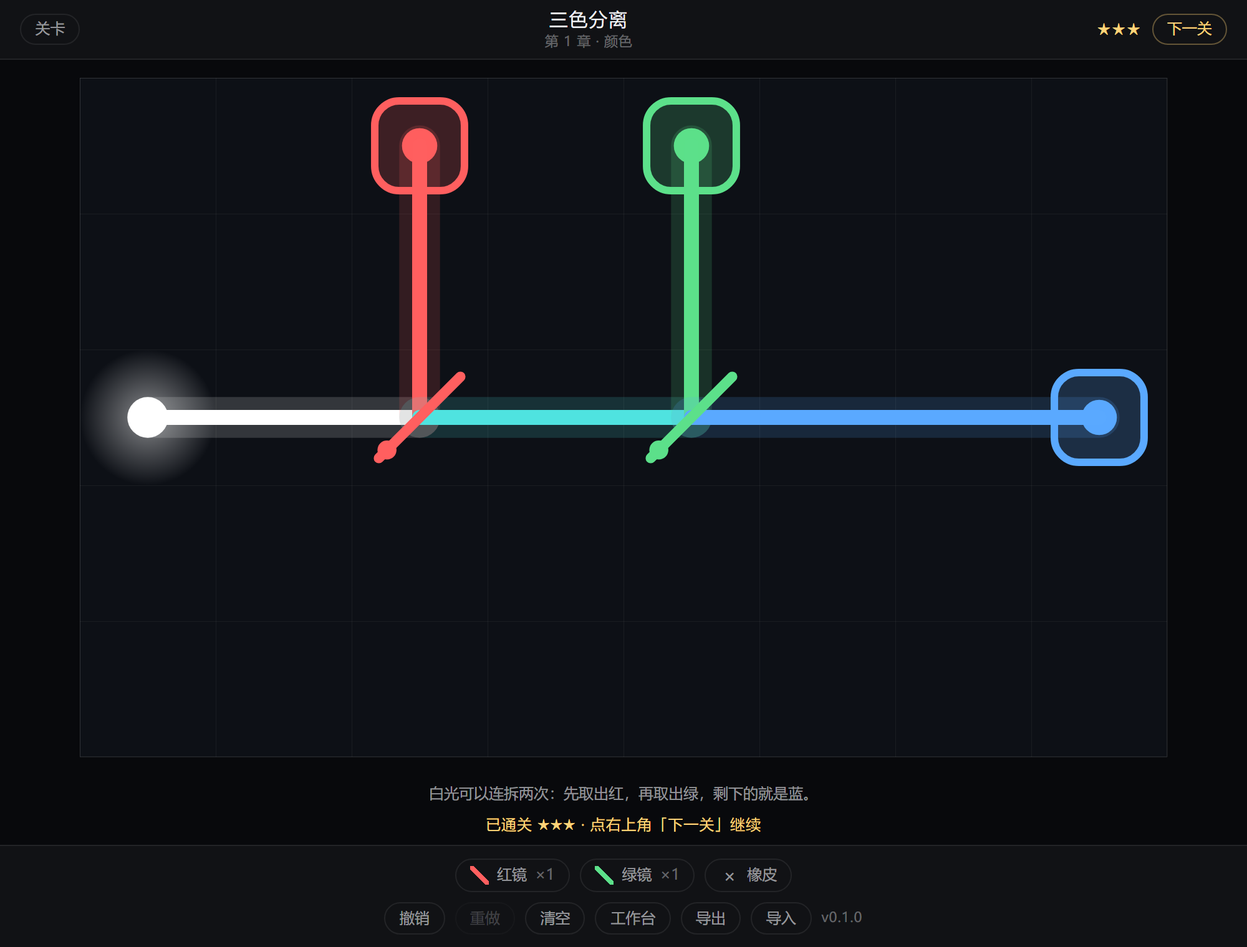
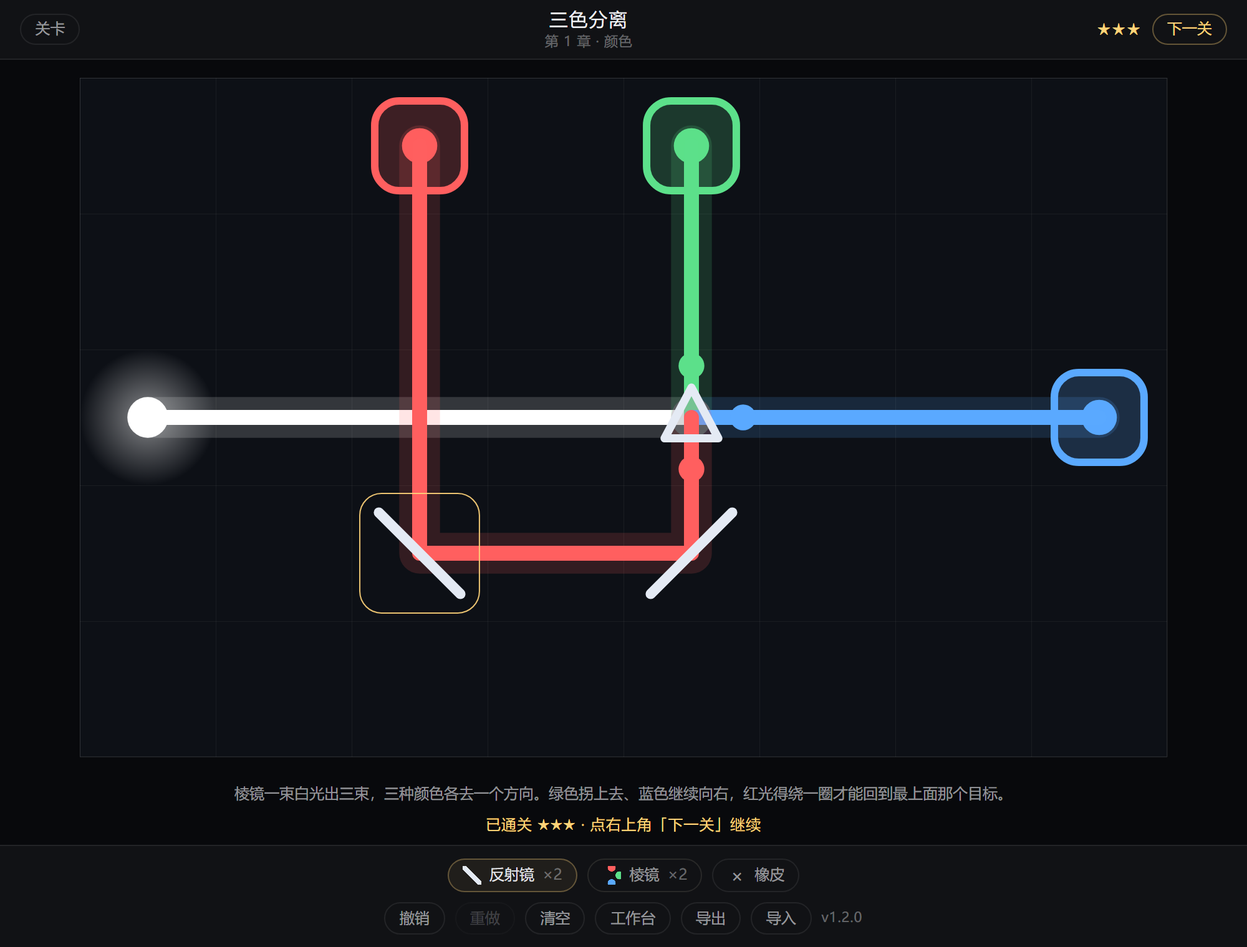
docs: rewrite the element docs and ship v1.2.0
The requirement and design documents still described the dichroics, and the
in-place edit of the level table claimed the colour chapter would keep its par
-- which the exhaustive search disproved, so the table now carries the values
that were actually verified.

Two findings worth keeping, both written into the docs:

* The target test stays a superset test, so a white beam lights a target that
  asks for cyan. That was already true in v1.0.0 and is what makes the six
  colour levels solvable by routing white light alone -- the old dichroics were
  decoration in twelve of the sixteen levels.
* Under that rule no level can ever force colour separation, because splitting
  adds no reachability. The prism's single-element edge is "one element, three
  directions", and the colour chapter enforces it through the element quota.

Adding a target or removing a wall to the colour levels was on the table; the
search showed it is unnecessary, so no layout moved and no level had to be
redesigned. The screenshots are retaken from the verified solutions, and the
in-page version badge, package.json and the changelog agree at 1.2.0.

diff --git a/index.html b/index.html
@@ -44,7 +44,7 @@
         <button class="btn btn--ghost" id="btn-export" type="button" title="把当前关卡导出为 JSON 文件">导出</button>
         <button class="btn btn--ghost" id="btn-import" type="button" title="导入外部关卡 JSON 文件">导入</button>
         <input class="sr-only" id="file-import" type="file" accept="application/json,.json" />
-        <span class="hud__version" data-app-version>v1.1.0</span>
+        <span class="hud__version" data-app-version>v1.2.0</span>
       </div>
     </footer>
   </div>

diff --git a/doc/需求与测试用例.md b/doc/需求与测试用例.md
@@ -4,8 +4,8 @@
 
 | 项目 | 内容 |
 |---|---|
-| 文档版本 | r3（v1.0.0 实现与测试回填） |
-| 对应产品 | v1.0.0（16 关全量可玩，Web 版发布就绪） |
+| 文档版本 | r4（v1.2.0 元件改版：移除二向色镜、新增棱镜） |
+| 对应产品 | v1.2.0（16 关全量可玩，Web 版与安卓版均已发布） |
 | 需求来源 | **对标 Steam《RAX》**（AppID 2391770，leegons，2026-06-15 首发，免费） |
 | 实施策略 | 先 Web 版（纯静态、零运行时依赖），跑通后再打包安卓 APK |
 | 变更方式 | 需求变更先改本文件、再改 `设计文档.md`，最后才动代码 |
@@ -26,7 +26,7 @@
 |---|---|---|
 | 网格光路、水平/垂直/斜向传播 | ✅ 做 | 8 方向传播 |
 | 镜子、分光镜 | ✅ 做 | 反射镜、分光镜 |
-| 颜色拆分与合成 | ✅ 做 | 二向色镜（拆分）+ 目标处加色合成 |
+| 颜色拆分与合成 | ✅ 做 | 棱镜（按 RGB 分量三分）+ 目标处加色合成 |
 | 延迟镜、冷热镜、单通镜、条件触发 | ❌ 不做 | 属第二版，需要引入时间步模型 |
 | 蓝图 / 芯片封装 | ❌ 不做 | 依赖前两版稳定后再做 |
 | 关卡模式 + 星级挑战 | ✅ 做 | 1★ 通关，2★/3★ 按元件数 |
@@ -82,23 +82,71 @@
 | `M` | R + B | 品红 |
 | `W` | R + G + B | 白 |
 
-- 同一束光的颜色在传播过程中**不变**，除非经过二向色镜被拆分。
+- 同一束光的颜色在传播过程中**不变**，除非经过棱镜被按分量拆分。
 - **颜色合成只发生在目标处**：从任意方向射入同一目标的各束光按位或合并，合并结果满足目标要求即视为点亮。
 - 元件所在格不发生颜色合成（穿过同一格的两束光互不影响）。
 
-### 3. 元件清单（第一版）
+### 3. 元件清单（v1.2.0）
 
-| 代号 | 名称 | 可旋转 | 可放置 | 规则 |
+| 代号 | 名称 | 朝向 | 可放置 | 规则 |
 |---|---|---|---|---|
-| `emitter` | 光源 | 否 | 否 | 关卡预设，固定位置、朝向与颜色（R/G/B 之一），不可删除 |
-| `mirror` | 反射镜 | ✅ 2 态 | ✅ | 45° 镜面（`/` 或 `\`），关于镜面方向做镜像反射 |
-| `splitter` | 分光镜 | ✅ 2 态 | ✅ | 入射光同时产生透射与反射两束，各保留原色 |
-| `dichroicR` / `dichroicG` / `dichroicB` | 二向色镜 | ✅ 2 态 | ✅ | 反射**指定颜色**，其余颜色透射。实现颜色拆分 |
-| `wall` | 墙体 | 否 | 否 | 关卡预设，吸收所有光，不可删除 |
-| `target` | 目标 | 否 | 否 | 关卡预设，标注所需颜色，被满足时点亮 |
+| `emitter` | 光源 | — | 否 | 关卡预设，固定位置、朝向与颜色（R/G/B 之一），不可删除 |
+| `mirror` | 反射镜 | 2 态 | ✅ | 45° 镜面（`/` 或 `\`），关于镜面方向做镜像反射 |
+| `splitter` | 分光镜 | 2 态 | ✅ | 入射光同时产生透射与反射两束，各保留原色 |
+| `prism` | 棱镜 | **3 态** | ✅ | 按颜色掩码拆成 R/G/B 三个分量，分别送往入射方向的**左转 90°、直行、右转 90°** |
+| `wall` | 墙体 | — | 否 | 关卡预设，吸收所有光，不可删除 |
+| `target` | 目标 | — | 否 | 关卡预设，标注所需颜色，被满足时点亮 |
 
-**二向色镜作为三种独立元件**（红/绿/蓝各一个），而不是「一个元件加一个换色按钮」：
-放置时一次到位，避免二次编辑，也避免移动端长按/右键的复杂交互。
+「朝向」列的态数由 `orientStateCount(type)` 给出：反射镜与分光镜是 2 态（`/` 与 `\`），棱镜是 3 态。
+点击已放置的元件（或按 `R`）循环切换。
+
+**棱镜的朝向决定「哪个颜色走直行」**，三态循环，另两色自动分列两侧：
+
+| 朝向 | 左转 90° | 直行 | 右转 90° |
+|---|---|---|---|
+| 0 | R | G | B |
+| 1 | G | B | R |
+| 2 | B | R | G |
+
+读法：三个颜色永远按 `R → G → B` 的顺序占据「左转 / 直行 / 右转」三个位置，朝向只是把起点轮转一位。
+等价地，**朝向 `n` 表示左转位上坐着循环序列的第 `n` 个颜色**。
+
+方向定义（与 `light-core.js` 的索引一致，屏幕坐标系 y 轴向下）：
+**左转 = 屏幕上逆时针 90°**，即方向索引 `(i − 2 + 8) % 8`；右转 = 顺时针 90°，即 `(i + 2) % 8`。
+对向右传播的光，左转是向上、右转是向下。
+
+**v1.0.0 的三种二向色镜（`dichroicR` / `dichroicG` / `dichroicB`）已移除。**
+二向色镜是**二分**（指定色走一路，其余颜色一起走另一路），棱镜是**三分**（R/G/B 各走一路），
+两者语义不同：「让其余颜色一起走」这类谜题在新机制下表达不出来 —— 这不是被更强的元件替代，
+而是整套拆分机制换掉了。
+
+二向色镜机制可能在未来版本以别的形式回归，但代码里按彻底移除处理，不留半成品分支。
+
+#### 3.1 棱镜的真实定位（穷举验证后的结论）
+
+改元件后跑了全 16 关的穷举（`npm run verify:par`，见 §6 的 Q15），得到一个必须写下来的事实：
+
+| 关卡 | 声明 par | 穷举最小 | 一关是否需要棱镜 |
+|---|---|---|---|
+| 全部 16 关 | 与穷举最小**完全一致** | — | **一关都不需要** |
+
+原因有两层，都不可绕过：
+
+1. **目标判定是超集判定**：`(incoming & require) === require`。白光含 R/G/B，
+   打在 require 为 `R`、`C` 等任何目标上都算点亮（Q15 确认保持这条规则）。
+2. **拆色不增加可达性**：棱镜不会把光送到反射镜 + 分光镜送不到的地方，
+   它只是「一个元件分三路」这种更省元件的做法。
+
+因此在**现有** 16 关里，棱镜是「更省元件的一条路」，而不是必需元件 —— `t04`「拆开这束光」
+用一个分光镜也能过（黄光原样送给两个目标，超集判定下都算点亮）。
+
+**棱镜唯一能确立优势的题型是「一束光要同时去三个方向」**：
+反射镜 + 分光镜至少需要 2 个元件才能造出三路，棱镜 1 个就够。
+把它写进定位里，后续出题按这个形状走，而不是指望「目标要求青」逼出拆色（那条路在超集判定下走不通）。
+
+> 若哪天真想让颜色必须拆开，只能改目标判定为「入射色必须与需求色完全相等」。
+> 这次评估过并放弃了：代价是 7 关 par 上调，且「多打一束杂光会把已点亮的目标打灭」
+> 这种反直觉情况需要在界面上解释。
 
 ### 4. 传播与求解规则
 
@@ -109,6 +157,11 @@
   - 当 `d` 与镜面垂直时 `d' = −d`（原路返回）。
   - 标准情形下形成 90° 转向。
 - **分光镜**在入射方向上有两个出射：透射（保持 `d`）与反射（按镜面规则），两束颜色都与入射相同。
+- **棱镜**把入射颜色掩码拆成三个分量，每个非零分量各出一束：
+  `R` 分量 → 左转 90°，`G` 分量 → 直行，`B` 分量 → 右转 90°（哪个颜色坐哪个位置由朝向决定，见上表）。
+  - 缺哪个分量就不出哪一束：黄光（`R|G`）进棱镜只出两束，纯红光只出一束。
+  - 与分光镜的关键区别：**分光镜能让同一种颜色变成两束，棱镜永远不会** ——
+    每个颜色分量在棱镜里只有一个出口。这是两个元件各自不可替代的地方。
 - **终止条件**：撞到墙体、离开网格边界、或状态重复。
 - **防环剪枝**：同一格 + 同一方向 + 同一颜色只处理一次，避免分光镜构成的环路导致死循环。
 - **安全上限**：单次求解最多处理 4096 个光段；超出则停止追踪并在控制台给出提示（视为光路过载，不影响其它关卡）。
@@ -117,7 +170,22 @@
 ### 5. 关卡与星级
 
 - 章节结构：**第 0 章（教学，4 关）** + **第 1 章（6 关）** + **第 2 章（6 关）**，共 16 关。
-- 教学关依次引入：光直射与目标 → 反射镜 → 分光镜 → 二向色镜。
+- 教学关依次引入：光直射与目标 → 反射镜 → 分光镜 → 棱镜。
+- 第 1 章「颜色」以棱镜的三色路由为主线；第 2 章「精算」收紧元件配额。
+- **v1.2.0 的关卡改动范围**（穷举验证后收窄，见 §3.1）：
+
+| 关卡 | 原设计依赖 | 本轮处理 |
+|---|---|---|
+| `t04` | 红二向色镜教学 | hint 改为棱镜教学；布局不动，`par` 仍是 1（穷举确认棱镜解即最小解） |
+| `c01` `c03` `c04` `c05` `c06` | 二向色镜拆色 | inventory 换成「棱镜 + 反射镜」并**去掉分光镜**，hint 改写；布局不动，`par` 按穷举最小调到 3 / 3 / 4 / 4 / 4 |
+| `c05` | — | 标题「绿镜的名堂」引用了已移除的元件，更名为「品红与绿」 |
+| `e02` `e06` | 二向色镜拆色 | **只改 inventory 键名**，hint 与布局都不动、`par` 不变（肖工确认这两关不用重做） |
+| 其余 8 关 | — | 不动 |
+
+- 第 1 章不发分光镜是**刻意的**：反射镜不能分束，因此该章「一束光喂饱多个目标」只能靠棱镜，
+  棱镜从「可选的省元件做法」变成必需元件。这条约束由单测把守（谁把分光镜加回颜色章就红）。
+  `e02` / `e06` 保持发分光镜，所以它们的最解仍是两个 / 三个元件。
+- 所有关卡的 `par` 必须等于穷举出的最小元件数，且该值由 `npm run verify:par` 复核。参考解只能证明局部最优，证明不了「更少的元件做不到」。
 - 星级规则（每关独立计算，取历史最好成绩）：
 
 | 星级 | 条件 |
@@ -135,10 +203,10 @@
 
 | 操作 | 鼠标 | 键盘 | 触摸 |
 |---|---|---|---|
-| 选中元件 | 点击工具栏 | `1`–`5` 数字键 | 点击工具栏 |
+| 选中元件 | 点击工具栏 | `1`–`3` 数字键 | 点击工具栏 |
 | 选中橡皮 | 点击工具栏的橡皮 | `E` | 点击工具栏的橡皮 |
 | 放置到空格 | 左键点击空格 | 方向键移动光标 + `Enter` | 点击空格 |
-| 旋转已放置的元件 | 左键点击该元件 | 光标移到元件上按 `R` | 点击该元件 |
+| 切换已放置元件的朝向 | 左键点击该元件，按该元件的态数循环 | 光标移到元件上按 `R` | 点击该元件 |
 | 删除元件 | 右键点击元件，或选中橡皮后点击 | 光标移到元件上按 `Delete` / `Backspace` | 选中橡皮后点击元件 |
 | 打开关卡列表 | 顶栏「关卡」 | 未选中任何元件时按 `Esc` | 顶栏「关卡」 |
 | 取消当前选中 | — | `Esc` | — |
@@ -195,12 +263,12 @@
 | T06 | 反射规则：4 个轴向入射 × 2 种镜面朝向的 8 种组合结果正确 | ✅ 已实现（`tests/light-core.test.js`） |
 | T07 | 反射规则：斜向入射的「平行滑过」与「垂直返回」两种边界情形正确 | ✅ 已实现 |
 | T08 | 分光镜：入射光产生透射与反射两束，颜色均与入射相同 | ✅ 已实现 |
-| T09 | 二向色镜：只反射指定颜色，其余颜色透射 | ✅ 已实现 |
+| T09 | 棱镜：按 RGB 分量拆成三束（红左转 / 绿直行 / 蓝右转）、三态朝向的槽位映射、缺色不出束、且永不产生同色两束 | ✅ 已实现 |
 | T10 | 颜色掩码：`R+G=Y`、`G+B=C`、`R+B=M`、`R+G+B=W` 的按位或合成正确 | ✅ 已实现 |
 | T11 | 求解终止：撞墙、出界、以及分光镜构环时的剪枝均正确终止 | ✅ 已实现（`tests/light-engine.test.js`） |
 | T12 | 求解幂等：同一关卡布局重复求解，光段与目标状态完全一致 | ✅ 已实现 |
 | T13 | 星级计算：`par`、`par+1`、`par+2`、`par+3` 四档元件数分别得到 3/2/2/1 星 | ✅ 已实现 |
-| T14 | 内置关卡数据自检：16 关的 schema 合法、坐标在界内、`par` 不小于实际最小值 | ✅ 已实现（`tests/levels.test.js`） |
+| T14 | 内置关卡数据自检：16 关的 schema 合法、坐标在界内、参考解元件数等于 `par`、去掉任一元件即不通关、配额足够、颜色章不发分光镜 | ✅ 已实现（`tests/levels.test.js`） |
 | T15 | 存档序列化／反序列化往返一致，旧格式兼容 | ✅ 已实现（`tests/storage.test.js`） |
 | T16 | 导入校验：缺字段 / 类型错 / 坐标越界 / 颜色代号非法 / 元件类型非白名单 / 超规模，逐项被拒 | ✅ 已实现 |
 
@@ -223,6 +291,7 @@
 | U11 | 导入被篡改的关卡文件时，给出明确错误提示且不改变当前关卡 | ✅ 已实现 |
 | U12 | 光路过载（超过 4096 光段）时给出警示提示，且不卡死、可撤销、可切关 | ✅ 已实现 |
 | U13 | 系统开启「减少动效」时关掉过渡，玩法不受影响 | ✅ 已实现 |
+| U14 | 棱镜的朝向按三态轮转（点击或 `R`），只有正确的朝向能通关 | ✅ 已实现 |
 
 ## 六、已确认的产品决策
 
@@ -241,6 +310,8 @@
 | 2026-09-19 | 清空采用两步确认（3 秒内再点一次） | 移动端工具栏紧挨着「撤销」，误触会把整关布局清光，而撤销栈只留 100 步 |
 | 2026-09-19 | HUD 展示项定稿 | Q08 结论：顶栏放关卡名 / 章节副标题 / 本关最好星数 / 常驻「下一关」；舞台下方放提示文案 + 通关状态行；底栏放工具栏（含剩余配额）、撤销、重做、清空、工作台、导出、导入、版本号。浮层承担通关结算、关卡列表、工作台、导入错误四类 |
 | 2026-09-19 | 性能指标定稿 | Q12 结论见下表，数值在 Chromium 1280×800 @ dpr 2 上实测 |
+| 2026-09-19 | 移除三种二向色镜，新增三态棱镜 | 棱镜按 RGB 分量三分：红左转 90°、绿直行、蓝右转 90°，朝向决定哪个颜色走直行（三态轮转）。红/绿/蓝二向色镜的功能被棱镜覆盖，故一并移除 |
+| 2026-09-19 | 目标点亮保持**超集判定** | Q15 结论：一束白光射到要求「青」的目标上**算点亮**。选它的理由是不引入「多打一束杂光反而把已点亮目标打灭」这种反直觉情形。代价是现有 16 关里棱镜不是必需元件（见 §3.1），棱镜的定位因此收敛为「一束光分三路的省元件做法」 |
 
 ### Q12 实测数值（2026-09-19）
 
@@ -255,6 +326,23 @@
 结论：**不需要优化求解器**。最坏情况（几何上限 40×40 + 元件数上限 + 光段数上限三者同时打满）
 也只有约 7.2 ms，仍在 60 fps 的单帧预算内。`overflow` 这条降级路径保留，因为它在
 40×40 铺满分光镜时是**真实可达**的（不是理论防御），所以必须有对应的 UI 提示（U12）。
+
+### Q15 棱镜与目标判定（2026-09-19）
+
+肖工决定：**目标点亮保持超集判定** —— 一束白光射到要求「青（G+B）」的目标上**算点亮**。
+选它是因为另一种方案（入射色必须与需求色完全相等）会带来「多打一束杂光反而把已点亮的目标
+打灭」的反直觉情形。
+
+这条决定的完整后果写在 §3.1，要点是：超集判定下**没有任何关卡能靠目标要求逼出拆色**，
+所以棱镜的单元素优势只剩「一个元件把光分三路」；颜色章的棱镜必需性由**元件配额**
+（该章不发分光镜）达成，不是由目标判定达成。
+
+穷举数据（`npm run verify:par`，库存放开时的全关卡最小元件数）：
+
+| 判定方式 | t04 | c01 | c03 | c04 | c05 | c06 | e02 | e06 |
+|---|---|---|---|---|---|---|---|---|
+| 超集（采用） | 1 | 1 | 2 | 2 | 2 | 2 | 2 | 3 |
+| 完全相等（放弃） | 1（唯一解是棱镜） | 3 | 3 | 4 | 4 | 4 | 4 | 5 |
 
 ## 七、后续讨论清单
 

diff --git a/doc/实施计划.md b/doc/实施计划.md
@@ -48,7 +48,7 @@
 ### 2.1 光路核心（纯计算）✅
 
 - [x] `scripts/light-core.js`：方向表、颜色掩码、反射公式 `(−dy,−dx)` / `(dy,dx)`、元件规则表
-- [x] `tests/light-core.test.js`：T06 轴向反射 8 组合 / T07 斜向边界 / T08 分光 / T09 二向色 / T10 颜色合成
+- [x] `tests/light-core.test.js`：T06 轴向反射 8 组合 / T07 斜向边界 / T08 分光 / T09 棱镜 / T10 颜色合成
 
 ### 2.2 求解器 ✅
 
@@ -57,7 +57,7 @@
 
 ### 2.3 教学关与首个可玩闭环 ✅
 
-- [x] `scripts/levels.js`：schema 校验函数 + 第 0 章 4 关（依次引入直射、反射镜、分光镜、二向色镜）
+- [x] `scripts/levels.js`：schema 校验函数 + 第 0 章 4 关（依次引入直射、反射镜、分光镜、棱镜）
 - [x] `tests/levels.test.js`：T14 全部关卡自检
 - [x] `scripts/renderer.js`：网格、元件图形、光段折线、目标状态（**替换掉待机占位渲染**）
 - [x] 输入层：Pointer Events 点选 / 放置 / 旋转 / 删除
@@ -106,27 +106,60 @@
       但渲染层与编排层**都没有消费它**，玩家会看到一条被截断的光路而毫无提示。
       已接到通关状态行（警示色 + 文案），并加 U12 断言：过载时可撤销、可切关，不会卡死
 
-## 阶段 4 · Web 版发版
+## 阶段 4 · Web 版发版 ✅
 
-- [ ] CHANGELOG 落版本号与日期，README 去「骨架」措辞、补截图与在线演示链接
-- [ ] 三处版本号一致（`package.json` / 页面 / CHANGELOG）
-- [ ] fast-forward 合并回 `main`，打 tag `vX.Y.Z`
-- [ ] 开启 GitHub Pages（source = main /）
-- [ ] 建 GitHub Release
+- [x] CHANGELOG 落版本号与日期，README 去「骨架」措辞、补截图与在线演示链接
+- [x] 三处版本号一致（`package.json` / 页面 / CHANGELOG）
+- [x] fast-forward 合并回 `main`，打 tag `v1.0.0`
+- [x] 开启 GitHub Pages（source = main /）
+- [x] 建 GitHub Release
 
-## 阶段 5 · 安卓 APK
+## 阶段 5 · 安卓 APK ✅
 
 复用 `web-app-to-android-apk` skill。
 
-- [ ] 第 0 步形态判定：本项目为「B 多文件静态站」，同步 `index.html` + `scripts/` + `styles/`
-- [ ] 分支 `feat-android-apk`（**无斜杠**，沙箱环境建不出含 `/` 的分支）
-- [ ] 复制工程模板到 `android/`，逐项替换包名／应用名／主题色／入口文件名
-- [ ] 包名 `com.xiaoxuhui.lightgame`，应用显示名「光的游戏」，minSdk 24
-- [ ] ImageGen 出图标（`icon-full.png` + `icon-foreground.png`），跑 `make-icons.py`
-- [ ] `sync:android` / `check:android` 脚本 + 结构断言并进 `npm test`
-- [ ] 导出改走 JS 桥 `LightGameAndroid.saveFile`
-- [ ] `.github/workflows/android-apk.yml`，tag 触发挂 Release
-- [ ] 真机安装验证（断网可玩、旋转不丢状态、返回键行为、刘海不遮挡）
+- [x] 第 0 步形态判定：本项目为「B 多文件静态站」，同步 `index.html` + `scripts/` + `styles/`
+- [x] 分支 `feat-android-apk`（**无斜杠**，沙箱环境建不出含 `/` 的分支；已快进合并回 `main`）
+- [x] 复制工程模板到 `android/`，逐项替换包名／应用名／主题色／入口文件名
+- [x] 包名 `com.xiaoxuhui.light`（**实际值**，计划里写的 `.lightgame` 太长，实施时改短了），
+      应用显示名「光的游戏」，minSdk 24
+- [x] 图标改为 `android/tools/make-icons.py` 程序化绘制（Pillow，零积分可复现，不依赖图像生成）
+- [x] `sync:android` / `check:android` 脚本 + 结构断言并进 `npm test`
+- [x] 导出改走 JS 桥 `LightAndroid.saveFile`（收敛在 `storage.downloadFile()` 单一出口）
+- [x] `.github/workflows/android-apk.yml`，tag 触发挂 Release
+- [x] 真机安装验证（装机可正常安装与运行；两条跨进程用例待补，见 `安卓真机验证记录.md`）
+
+## 阶段 6 · 元件改版：移除二向色镜、新增棱镜（v1.2.0）✅
+
+肖工提出的需求：棱镜按 RGB 分量三分（红左转 90°、绿直行、蓝右转 90°），
+红/绿/蓝二向色镜的功能被覆盖，一并移除。
+
+- [x] 需求文档 r4：元件清单、传播规则、交互控制表，新增 §3.1「棱镜的真实定位」与 Q15 决策
+- [x] 设计文档：4.3 元件规则表换成棱镜，新增 4.3.1「朝向的态数由元件决定」
+- [x] `light-core.js`：`TILE.PRISM` + 三槽位路由；`orientStateCount` / `cycleOrient` /
+      `normalizeOrient`；删除 `isDichroic` / `dichroicMask` 与三种二向色镜常量
+- [x] `light-engine.js` / `storage.js`：朝向归一收敛到 `normalizeOrient` 这一个出口
+- [x] `renderer.js`：棱镜按**实际入射方向**摆三颗色点（从光段反查入射方向）
+- [x] `app.js` / `styles/main.css`：工具名与图标、按元件态数循环朝向
+- [x] 新增 `tools/par-search.mjs` 与 `npm run verify:par`：穷举每关的最小元件数
+- [x] 关卡：`t04` 换成棱镜教学；`c01` / `c03` / `c04` / `c05` / `c06` 只发棱镜与反射镜，
+      `par` 调到穷举最小值（3 / 3 / 4 / 4 / 4）；`e02` / `e06` 按肖工要求只改库存键名
+- [x] 单测 115 条、浏览器验收 62 条、par 穷举 16 关全过
+- [x] README 玩法章节、CHANGELOG `[1.2.0]`、版本号提到 1.2.0 并 `sync:android`
+
+### 阶段 6 的关键决定（改关卡前先读这段）
+
+1. **目标点亮保持超集判定**（Q15）：白光打在要求「青」的目标上算点亮。
+   选它的理由是不引入「多打一束杂光把已点亮的目标打灭」这种反直觉情形。
+2. 超集判定的推论：**任何关卡都无法靠目标要求逼玩家拆色**（白光含所有颜色，
+   而拆色并不增加可达性）。棱镜的单元素优势只剩「一个元件把光分三路」。
+3. 因此颜色章的棱镜必需性是用**元件配额**达成的，不是靠目标判定：
+   颜色章不发分光镜，而反射镜不能分束 —— 「一束光喂饱多个目标」在这一章只能靠棱镜。
+   这条约束写成了单测断言（含一条结构性不变量：没有分束元件时一束光最多点亮一个目标），
+   谁把分光镜加回颜色章就会立刻红。
+4. **原先判断「13 关要重做」是错的**：穷举结果显示 16 关在原布局下全部可解，
+   真正的原因（分光镜 + 白光可通吃）是 v1.0.0 就存在的，与本次换元件无关。
+   教训：改元件规则前先跑穷举，再下结论。
 
 ## 第二版及以后（不在当前范围）
 

diff --git a/CHANGELOG.md b/CHANGELOG.md
@@ -2,6 +2,47 @@
 
 本文件记录重要的用户可见变化。版本号遵循语义化版本；发布日期在正式发布时填写。
 
+## [1.2.0] - 2026-09-19
+
+元件改版：移除三种二向色镜、新增三态棱镜，全 16 关的 `par` 用穷举重新确认。
+
+### Added
+
+- **棱镜（`prism`）**：把入射光按颜色分量拆成三束 —— 红色朝入射方向的左转 90°、绿色直行、
+  蓝色右转 90°。三态朝向决定「哪个颜色走直行」，点击已放置的棱镜或按 `R` 循环切换。
+  缺哪个分量就不出哪一束：黄光只出两束，纯红光只出一束。
+- **`npm run verify:par`**：新工具 `tools/par-search.mjs`，逐层加深穷举出每关的**最少元件数**。
+  参考解只能证明局部最优，这个工具证明的是全局最优。16 关全部与声明的 `par` 一致。
+- 浏览器验收新增棱镜三态轮转用例；单测新增棱镜规则、槽位表与两条结构性不变量断言。
+
+### Changed
+
+- **移除 `dichroicR` / `dichroicG` / `dichroicB`**。二向色镜是「指定色走一路、其余颜色一起走
+  另一路」的**二分**元件，棱镜是**三分**元件，两者语义不同 —— 功能被覆盖后一并删除，
+  代码里不留半成品分支。依赖二向色镜的关卡提示与配额同步改写。
+- **颜色章（`c01`–`c06`）不再发放分光镜**，只发棱镜与反射镜。反射镜无法分束，所以
+  「一束光喂饱多个目标」在这个章节**只能靠棱镜**完成；5 关的 `par` 随之从 1/2/2/2/2
+  调整为 3/3/4/4/4。布局与目标位置一个没动。
+- 教学第 4 关 `t04` 改为棱镜教学（原本教的是红二向色镜）。
+- `c05` 更名为「品红与绿」：原名「绿镜的名堂」引用了已移除的元件。
+- 棱镜的三颗色点按**实际入射方向**摆放，玩家能直接看出每个颜色正在往哪边走；
+  工具栏图标同样按「光从左来」画成上红/右绿/下蓝。
+- 工具栏数字键从 `1`–`5` 收窄为 `1`–`3`（可放置元件变成三种）。
+
+### 已知取舍
+
+- **目标点亮仍是超集判定**（`incoming & require === require`）：白光含三种颜色，所以打在
+  单色目标上也算点亮。这条规则不会出现「多打一束杂光反而把已点亮的目标打灭」的反直觉情形；
+  代价是颜色章之外棱镜并非必需元件 —— 它的定位是「一个元件把光分三路」的省元件做法。
+- **第 2 章 `e02` / `e06` 保持原样**（肖工确认）：这两关本来就能用两束光把绿与蓝分别送进
+  同一个目标，换成棱镜后依然可解，`par` 也没变。
+- **不重新打安卓包**：APK 版本线独立演进，`versionName` 仍是 1.1.0。
+
+### 测试
+
+- 单元测试 115 条、浏览器验收 61 条（桌面 + 移动视口）全部通过。
+- `npm run verify:par` 确认 16 关的 `par` 与穷举出的最小元件数逐一相等。
+
 ## [1.1.0] - 2026-09-19
 
 安卓版发布：同一份 Web 代码装进 WebView 外壳，可以直接安装到手机与平板。

diff --git a/README.md b/README.md
@@ -11,25 +11,27 @@
 
 ![游戏画面](doc/screenshots/c03.png)
 
-用反射镜、分光镜和三色二向色镜引导光的方向与颜色，把正确颜色的光送到目标上。
+用反射镜、分光镜和棱镜引导光的方向与颜色，把正确颜色的光送到目标上。
 无计时、无失败、无音效，摆弄光路本身就是奖励。
 
 ## 玩法
 
-- **元件**：反射镜（转向）、分光镜（一分为二，透射 + 反射）、三色二向色镜
-  （只反射指定颜色，其余透射）。
+- **元件**：反射镜（转向）、分光镜（一分为二，透射 + 反射）、棱镜（把光按颜色拆成三束：
+  红左转 90°、绿直行、蓝右转 90°，三态朝向决定哪个颜色走直行）。
 - **颜色**：光在传输中保持颜色，在目标处按加色法合成 —— 红光 + 绿光 = 黄光。
-  白光打上红二向色镜会分成反射的红光与透射的青光，再经绿二向色镜拆出绿光与蓝光。
+  白光射入棱镜会分成红、绿、蓝三束，各走一个方向；把绿光和蓝光送到同一个目标，
+  它就凑成了青色。目标是超集判定：白光含三种颜色，打在只要求单色的目标上也算点亮。
 - **星级**：通关 1 星；元件数 ≤ `par + 2` 得 2 星；≤ `par` 得 3 星。
-  `par` 是设计者验证过的最小元件数，用更少的元件解出来才能满星。
+  `par` 是穷举验证过的最小元件数（`npm run verify:par`），用更少的元件解出来才能满星。
 - **16 个关卡**，分三章：教学 4 关、颜色 6 关、精算 6 关。
+  颜色章不发分光镜（反射镜无法分束），所以那一章必须用棱镜。
 
 | 操作 | 鼠标 / 触摸 | 键盘 |
 |---|---|---|
-| 选中元件 | 点击底栏工具 | `1`–`5` |
+| 选中元件 | 点击底栏工具 | `1`–`3` |
 | 选中橡皮 | 点击底栏橡皮 | `E` |
 | 放置 | 点击空格 | 方向键移动光标 + `Enter` |
-| 旋转 | 点击已放置的元件 | `R` |
+| 旋转（棱镜三态） | 点击已放置的元件 | `R` |
 | 删除 | 右键，或选中橡皮后点击 | `Delete` / `Backspace` |
 | 撤销 / 重做 | 底栏按钮 | `Ctrl+Z` / `Ctrl+Shift+Z`（或 `Ctrl+Y`） |
 | 关卡列表 / 取消选中 / 关浮层 | 顶栏「关卡」 | `Esc` |
